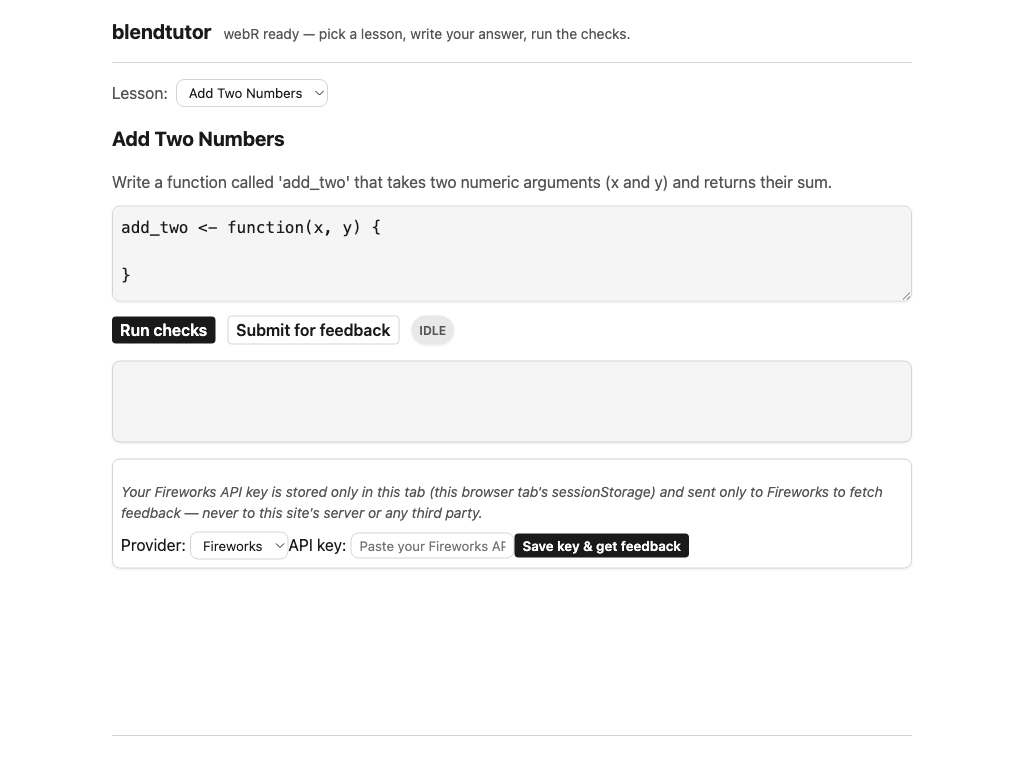
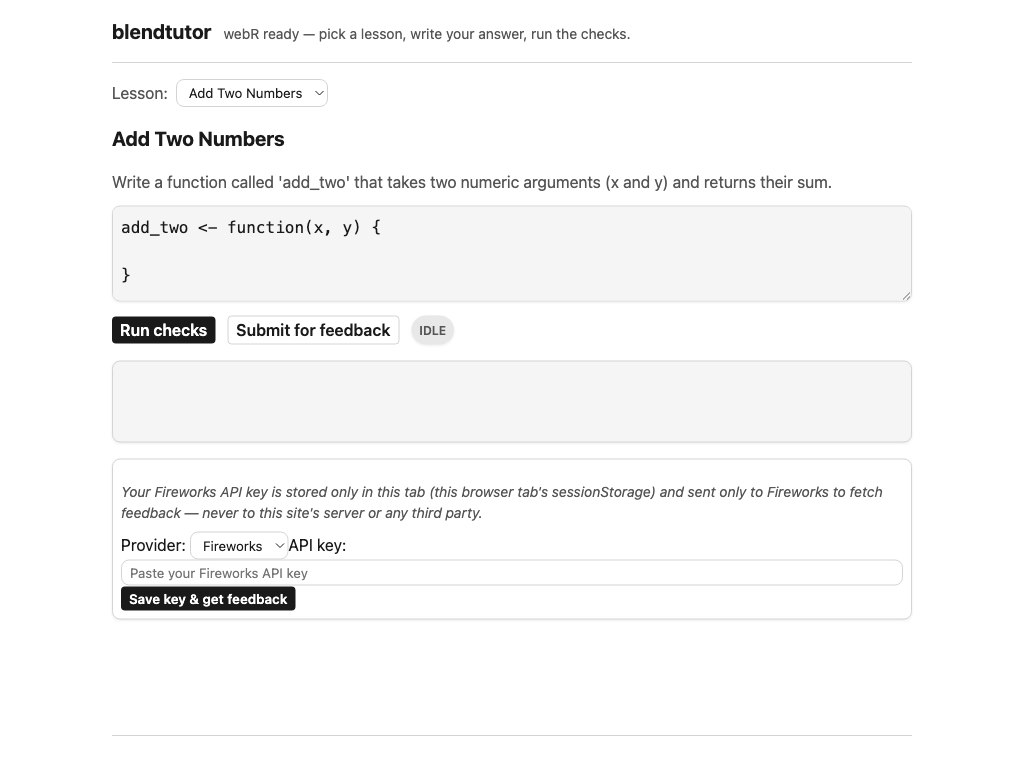
fix(ui): widen BYOK API-key input to fill card width

Changed region(s): [[0.0938, 0.7188, 0.3125, 0.8125], [0.3438, 0.6875, 0.6875, 0.75]]

diff --git a/crates/core/assets/shared/styles.css b/crates/core/assets/shared/styles.css
@@ -315,6 +315,11 @@ footer.site-footer {
   font-family: var(--bt-font-family-ui);
 }
 
+#feedback input[type="password"] {
+  width: 100%;
+  box-sizing: border-box;
+}
+
 #feedback button[type="submit"] {
   background: var(--bt-color-brand);
   color: var(--bt-color-surface);